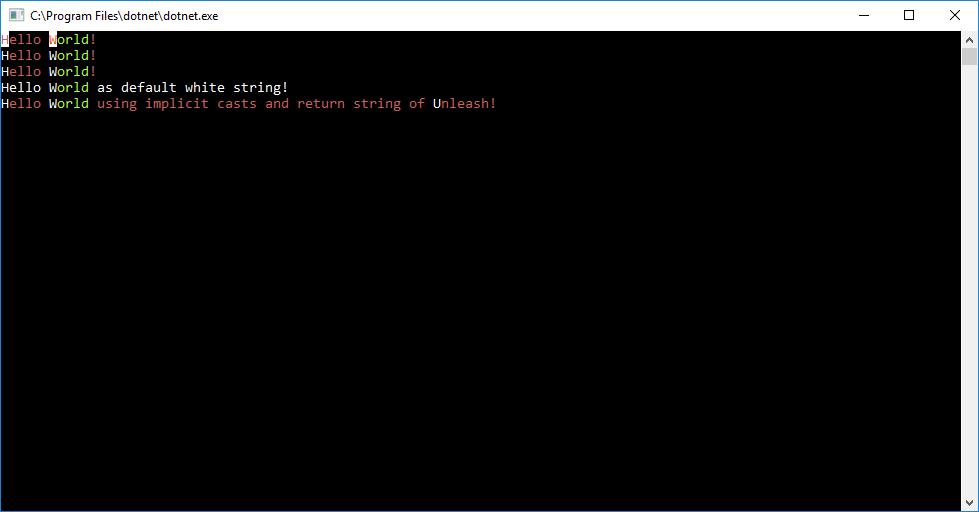
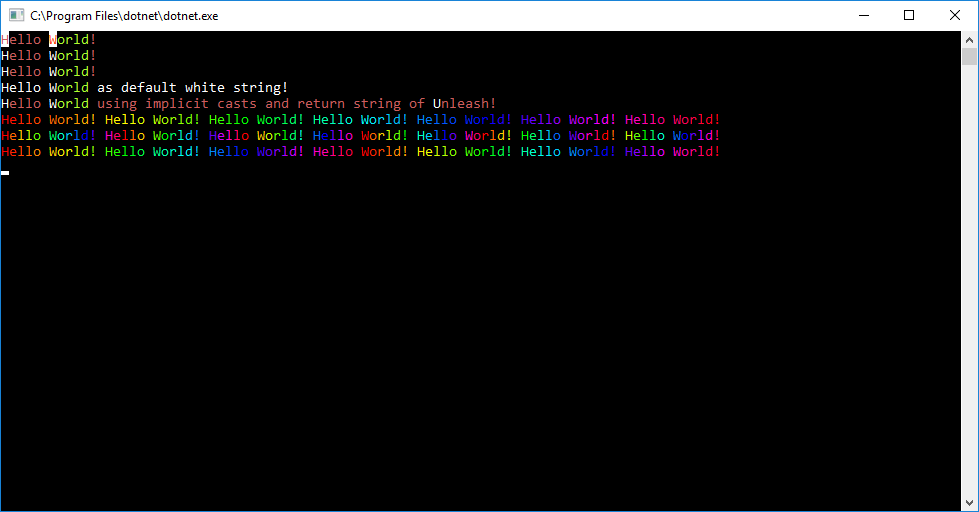
showing off

Changed region(s): [[0.0, 0.2188, 0.7354, 0.3125]]

diff --git a/ArtisticPastelPainter/RainbowBrush.cs b/ArtisticPastelPainter/RainbowBrush.cs
@@ -1,0 +1,104 @@
+using System.Collections.Generic;
+using System.Drawing;
+
+namespace ArtisticPastelPainter
+{
+    public class RainbowBrush : IArtisticBrush
+    {
+        private int? _fixedRainbowSize;
+        private int? _nrOfRainbows;
+
+        public RainbowBrush() { }
+        public static RainbowBrush FixedRainbowSize(int fixedRainbowSize)
+        {
+            return new RainbowBrush { _fixedRainbowSize = fixedRainbowSize };
+        }
+
+        public static RainbowBrush FixedNrOfRainbows(int nrOfRainbows)
+        {
+            return new RainbowBrush { _nrOfRainbows = nrOfRainbows };
+        }
+
+        public void Unleash(ArtisticString coloredString)
+        {
+            var rainbowSize = _fixedRainbowSize ?? (_nrOfRainbows.HasValue ? (coloredString.Value.Length / _nrOfRainbows) : coloredString.Value.Length);
+            var rainbow = new Rainbow(rainbowSize.Value).Colors.GetEnumerator();
+            for (int i = 0; i < coloredString.Value.Length; i++)
+            {
+                rainbow.MoveNext();
+                coloredString.PaintYourself(i, 1, rainbow.Current);
+            }
+        }
+
+        private class Rainbow
+        {
+            private readonly int nrOfColors;
+
+            public Rainbow(int nrOfColors)
+            {
+                this.nrOfColors = nrOfColors;
+            }
+            public IEnumerable<Color> Colors
+            {
+                get
+                {
+                    while (true)
+                    {
+                        int step = 0;
+                        while (step < nrOfColors)
+                        {
+                            yield return GetRainbowColor(nrOfColors, step);
+                            step++;
+                        }
+                    }
+                }
+            }
+
+            private static Color GetRainbowColor(int numOfSteps, int step)
+            {
+                var r = 0.0;
+                var g = 0.0;
+                var b = 0.0;
+                var h = (double)step / numOfSteps;
+                var i = (int)(h * 6);
+                var f = h * 6.0 - i;
+                var q = 1 - f;
+
+                switch (i % 6)
+                {
+                    case 0:
+                        r = 1;
+                        g = f;
+                        b = 0;
+                        break;
+                    case 1:
+                        r = q;
+                        g = 1;
+                        b = 0;
+                        break;
+                    case 2:
+                        r = 0;
+                        g = 1;
+                        b = f;
+                        break;
+                    case 3:
+                        r = 0;
+                        g = q;
+                        b = 1;
+                        break;
+                    case 4:
+                        r = f;
+                        g = 0;
+                        b = 1;
+                        break;
+                    case 5:
+                        r = 1;
+                        g = 0;
+                        b = q;
+                        break;
+                }
+                return Color.FromArgb((int)(r * 255), (int)(g * 255), (int)(b * 255));
+            }
+        }
+    }
+}

diff --git a/ArtisticPastelPainter/IArtisticBrush.cs b/ArtisticPastelPainter/IArtisticBrush.cs
@@ -1,11 +1,7 @@
-using System.Drawing;
-
-namespace ArtisticPastelPainter
+namespace ArtisticPastelPainter
 {
     public interface IArtisticBrush
     {
-        Color Color { get; }
-
         void Unleash(ArtisticString coloredString);
     }
 }

diff --git a/README.md b/README.md
@@ -4,30 +4,39 @@ credits to the excellent https://github.com/silkfire/Pastel
 ![Examples](https://raw.githubusercontent.com/mattiasnordqvist/Artistic-Pastel-Painter/master/example.png)
 
 ```csharp
-var bareBones = new ArtisticString("Hello World!", Color.IndianRed);
-bareBones.PaintYourself(6, 5, Color.GreenYellow);
-bareBones.PaintYourself(0, 1, background: Color.White);
-bareBones.PaintYourself(6, 1, (background: Color.White, foreground: Color.OrangeRed));
-Console.WriteLine(bareBones);
+    var bareBones = new ArtisticString("Hello World!", Color.IndianRed);
+    bareBones.PaintYourself(6, 5, Color.GreenYellow);
+    bareBones.PaintYourself(0, 1, background: Color.White);```
+    bareBones.PaintYourself(6, 1, (background: Color.White, foreground: Color.OrangeRed));
+    Console.WriteLine(bareBones);// more examples on how to do the same thing here...
 
-var withArtisticBrushes = new ArtisticString("Hello World!", Color.IndianRed);
-withArtisticBrushes.PaintYourself(new ArtisticRegexBrush("World", Color.GreenYellow));
-withArtisticBrushes.PaintYourself(new ArtisticRegexBrush("[A-Z]", Color.White));
-Console.WriteLine(withArtisticBrushes);
+    var withArtisticBrushes = new ArtisticString("Hello World!", Color.IndianRed);
+    withArtisticBrushes.PaintYourself(new ArtisticRegexBrush("World", Color.GreenYellow));
+    withArtisticBrushes.PaintYourself(new ArtisticRegexBrush("[A-Z]", Color.White));
+    Console.WriteLine(withArtisticBrushes);
 
-var withReusablePainter = new ArtisticPainter()
-    .BeCreativeWith(new ArtisticRegexBrush("World", Color.GreenYellow))
-    .BeCreativeWith(new ArtisticRegexBrush("[A-Z]", Color.White));
+    var withReusablePainter = new ArtisticPainter()
+        .BeCreativeWith(new ArtisticRegexBrush("World", Color.GreenYellow))
+        .BeCreativeWith(new ArtisticRegexBrush("[A-Z]", Color.White));
 
-Console.WriteLine(withReusablePainter.Unleash(new ArtisticString("Hello World!", Color.IndianRed)));
+    Console.WriteLine(withReusablePainter.Unleash(new ArtisticString("Hello World!", Color.IndianRed)));
 
-Console.WriteLine(withReusablePainter.Unleash("Hello World as default white string!"));
+    Console.WriteLine(withReusablePainter.Unleash("Hello World as default white string!"));
 
-Console.WriteLine(new ArtisticPainter()
-    .BeCreativeWith(new ArtisticRegexBrush("World", Color.GreenYellow))
-    .BeCreativeWith(new ArtisticRegexBrush("[A-Z]", Color.White))
-    .Unleash(new ArtisticString("Hello World using implicit casts and return string of Unleash!", Color.IndianRed)));
+    Console.WriteLine(new ArtisticPainter()
+        .BeCreativeWith(new ArtisticRegexBrush("World", Color.GreenYellow))
+        .BeCreativeWith(new ArtisticRegexBrush("[A-Z]", Color.White))
+        .Unleash(new ArtisticString("Hello World using implicit casts and return string of Unleash!", Color.IndianRed)));
 
-```
+    Console.WriteLine(new ArtisticPainter()
+    .BeCreativeWith(new RainbowBrush())
+    .Unleash(new ArtisticString("Hello World! Hello World! Hello World! Hello World! Hello World! Hello World! Hello World!", Color.White)));
 
-// more examples on how to do the same thing here...
+    Console.WriteLine(new ArtisticPainter()
+   .BeCreativeWith(RainbowBrush.FixedRainbowSize(15))
+   .Unleash(new ArtisticString("Hello World! Hello World! Hello World! Hello World! Hello World! Hello World! Hello World!", Color.White)));
+
+    Console.WriteLine(new ArtisticPainter()
+   .BeCreativeWith(RainbowBrush.FixedNrOfRainbows(2))
+   .Unleash(new ArtisticString("Hello World! Hello World! Hello World! Hello World! Hello World! Hello World! Hello World!", Color.White)));
+   ```
